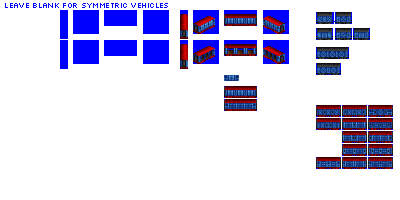
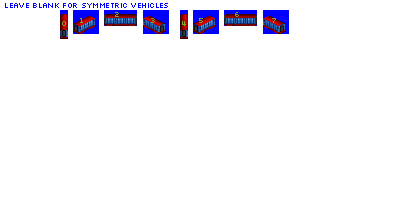
Fix: correct vehicle offsets

diff --git a/src/global_constants.py b/src/global_constants.py
@@ -53,12 +53,12 @@ PR_RUNNING_TRAIN_STEAM = -2
 PR_RUNNING_TRAIN_DIESEL = -4
 
 # standard offsets for trains
-default_spritesheet_offsets = {'3': [[-3, -25], [-3, -21], [0, -12], [5, -17], [-3, -14], [-14, -17], [-16, -12], [-8, -23]], # not used?
-                               '4': [[-3, -26], [-6, -20], [0, -12], [0, -16], [-3, -18], [-14, -16], [-16, -12], [-8, -20]], # mostly correct May 2018
-                               '5': [[-3, -22], [-6, -19], [0, -12], [1, -16], [-3, -14], [-16, -16], [-16, -12], [-8, -21]], # not used?
-                               '6': [[-3, -16], [-10, -18], [-8, -12], [-4, -16], [-3, -14], [-14, -16], [-16, -12], [-8, -19]], # mostly correct May 2018
-                               '7': [[-3, -20], [-8, -18], [0, -12], [-1, -15], [-3, -14], [-17, -15], [-16, -12], [-10, -19]], # not used?
-                               '8': [[-3, -16], [-14, -15], [-16, -12], [-7, -16], [-3, -16], [-13, -16], [-16, -12], [-7, -16]]} # mostly correct May 2018
+default_spritesheet_offsets = {'3': [[-3, -26],  [-3, -20],   [0, -12],  [5, -16], [-3, -16], [-14, -15], [-16, -12],  [-8, -21]],
+                               '4': [[-3, -24],  [-6, -19],   [0, -12],  [0, -16], [-3, -16], [-14, -15], [-16, -12],  [-8, -20]],
+                               '5': [[-3, -22],  [-8, -18],  [-4, -12], [-2, -16], [-3, -16], [-14, -15], [-16, -12],  [-8, -19]],
+                               '6': [[-3, -20], [-10, -17],  [-8, -12], [-4, -16], [-3, -16], [-14, -15], [-16, -12],  [-8, -18]],
+                               '7': [[-3, -18], [-12, -16], [-12, -12], [-6, -16], [-3, -16], [-14, -15], [-16, -12],  [-8, -17]],
+                               '8': [[-3, -16], [-14, -15], [-16, -12], [-8, -16], [-3, -16], [-14, -15], [-16, -12],  [-8, -16]]}
 
 # spritesheet bounding boxes, each defined by a 3 tuple (left x, width, height);
 # upper y is determined by spritesheet row position, so isn't defined as a constant

diff --git a/src/vehicles/alignment_cars.py b/src/vehicles/alignment_cars.py
@@ -1,4 +1,4 @@
-from train import AlignmentCarConsist, TrainCar
+from train import AlignmentCarConsist, AlignmentCar
 
 
 def main():
@@ -9,7 +9,7 @@ def main():
                                 subtype='A',
                                 sprites_complete=False)
 
-    consist.add_unit(type=TrainCar,
+    consist.add_unit(type=AlignmentCar,
                      vehicle_length=4,
                      chassis='2_axle_solid_express_16px')
 
@@ -20,7 +20,7 @@ def main():
                                 subtype='B',
                                 sprites_complete=False)
 
-    consist.add_unit(type=TrainCar,
+    consist.add_unit(type=AlignmentCar,
                      vehicle_length=6,
                      chassis='4_axle_solid_express_24px')
 
@@ -31,6 +31,6 @@ def main():
                                 subtype='C',
                                 sprites_complete=False)
 
-    consist.add_unit(type=TrainCar,
+    consist.add_unit(type=AlignmentCar,
                      vehicle_length=8,
                      chassis='4_axle_solid_express_32px')

diff --git a/src/train.py b/src/train.py
@@ -1965,6 +1965,16 @@ class TrainCar(Train):
         return int(self.consist.weight_factor * self.default_cargo_capacity * self.consist.roster.train_car_weight_factors[self.consist.gen - 1])
 
 
+class AlignmentCar(TrainCar):
+    """
+    Alignment Car, for debugging sprite positions
+    """
+
+    def __init__(self, **kwargs):
+        super().__init__(**kwargs)
+        self._symmetry_type = 'asymmetric'
+
+
 class CabooseCar(TrainCar):
     """
     Caboose Car. This sub-class only exists to set weight in absence of cargo capacity, in other respects it's just a standard wagon.

diff --git a/src/iron_horse.py b/src/iron_horse.py
@@ -37,8 +37,11 @@ pony.roster.register(disabled=False)
 
 from vehicles import numeric_id_defender
 
+"""
+# only comment in if needed for debugging
 from vehicles import alignment_cars
 alignment_cars.main()
+"""
 
 from vehicles import box_cars
 box_cars.main()
